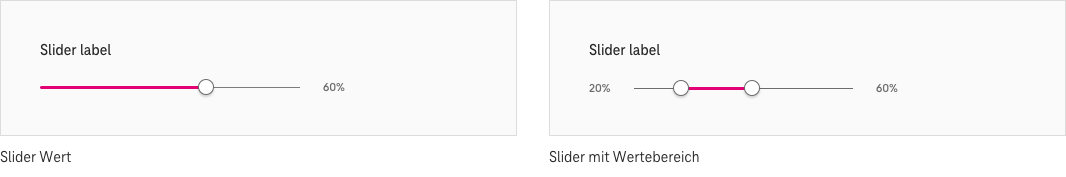
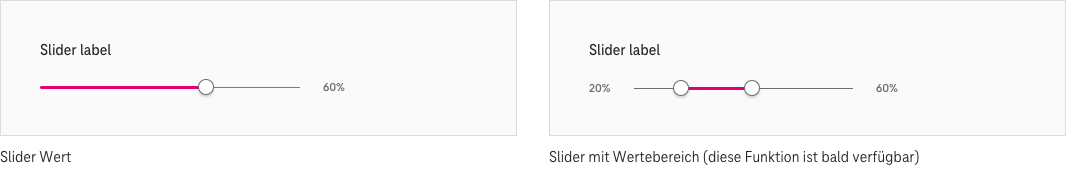
more translations

Changed region(s): [[0.6501, 0.8475, 0.8668, 0.9322]]

diff --git a/packages/storybook-vue/stories/4_community/1.Contributing_de.md b/packages/storybook-vue/stories/4_community/1.Contributing_de.md
@@ -1,26 +1,26 @@
-# (DE)Contributing to Scale
+# An Scale mitwirken
 
-Scale enables the Telekom developer community to share their skills. Whether you fix a bug, improve usability or build entire new components: Contribution is what makes Scale an invaluable asset to the Telekom product ecosystem.
+Scale ermöglicht es der Telekom Entwickler-Community ihre Fähigkeiten zu teilen. Ob du einen Fehler behebst, die Benutzbarkeit verbesserst oder neue Komponenten entwickelst: Diese Beiträge machen Scale zu einem wertvollen Asset im Produkt-Ökosystem der Telekom.
 
-## How You Can Contribute
+## Wie du zu Scale beiträgst
 
-- Report an issue in our [repository](https://gitlab.com/scale-ds/scale-telekom)
-- Fix a bug and send a [pull request](https://gitlab.com/scale-ds/scale-telekom)
-- If you want to contribute design work and new components, send an e-mail to Dennys.Hess@telekom.com
+- Sende ein Issue in unserem [Repository](https://gitlab.com/scale-ds/scale-telekom)
+- Behebe einen Fehler und sende uns einen [Pull request](https://gitlab.com/scale-ds/scale-telekom)
+- Wenn du Design-Verbesserungen und neue Komponenten beitragen willst, wende Dich an Dennys.Hess@telekom.com
 
-## Development Workflow for Contributions
+## Unser Arbeits-Ablauf für Beiträge
 
 ### Pull Requests
 
-When opening a new MR it is advised to branch off the latest `master` branch. We loosely follow the `Git flow` standards for branch naming e.g. `feat|feature`, `fix`, `chore`, `test` etc. All pull requests are then merged into `master` and released through the `CI` pipeline via the `release` branch.
+Wenn du einen neuen Pull Request öffnest, starte mit dem aktuellen `master` Branch. Wir folgen wenn möglich den `Git flow` Standards für Benamung: z.B. `feat|feature`, `fix`, `chore`, `test` etc. Alle Pull-Requests werden in `master` gemerged und durch die `CI` Pipeline im `release` -Branch veröffentlicht.
 
 ### Tests
 
-When developing new features or components it is required to provide `unit tests` and `end to end` tests if appropriate and aim at 100% test coverage. In addition we use `screenshot tests` for components via `jest-image-snapshot`. Stencil uses `Jest` as the testing framework, please take a look at the existing components as an example or visit the official documentation:
+Wenn neue Features und Komponenten entwickelt werden, benötigen wir `unit tests` und `end to end` Tests. Wir zielen auf 100% Test-Abdeckung. Zusätzlich nutzen wir `screenshot tests` für Komponenten in `jest-image-snapshot`. Stencil nutz `Jest` als Test-Framework. Bitte sieh Dir die existierenden Komponenten als Beispiele an und lies die offizielle Dokumentation:
 
 - https://stenciljs.com/docs/testing-overview
 - https://jestjs.io/
 
 ### Tooling
 
-We strongly recommend you use the `VSCode text editor` since most of our code is written in `Typescript` and it offers amazing support for the language.
+Wir empfehlen die Nutzung des `VSCode text editor` da er `Typescript` optimal unterstützt.

diff --git a/packages/storybook-vue/stories/2_guidelines/2.Spacing_de.md b/packages/storybook-vue/stories/2_guidelines/2.Spacing_de.md
@@ -8,10 +8,10 @@ Verwende die folgenden Einheiten bei der Konstruktion von Komponenten. Sie entha
 
 | Name       | rem   | px  | Beispiel                                |
 | ---------- | ----- | --- | --------------------------------------- |
-| Spacing-01 | 0.375 | 6   | ![Image Name](assets/2_guidelines/spacing/image2020-8-3_13-31-16.png) |
-| Spacing-02 | 0.5   | 8   | ![Image Name](assets/2_guidelines/spacing/image2020-8-3_13-27-47.png) |
-| Spacing-03 | 0.75  | 12  | ![Image Name](assets/2_guidelines/spacing/image2020-8-3_13-27-54.png) |
-| Spacing-04 | 1.5   | 24  | ![Image Name](assets/2_guidelines/spacing/image2020-8-3_13-28-1.png)  |
+| Spacing-01 | 0.375 | 6   | ![Image Name](assets/2_guidelines/2_spacing/image-spacing06px.png) |
+| Spacing-02 | 0.5   | 8   | ![Image Name](assets/2_guidelines/2_spacing/image-spacing08px.png) |
+| Spacing-03 | 0.75  | 12  | ![Image Name](assets/2_guidelines/2_spacing/image-spacing12px.png) |
+| Spacing-04 | 1.5   | 24  | ![Image Name](assets/2_guidelines/2_spacing/image-spacing24px.png)  |
 
 ## Layout-Einheiten
 
@@ -19,9 +19,9 @@ Mit Layout-Einheiten kannst du einzelne Komponenten und andere UI-Elemente eines
 
 | Name      | rem | px  | Beispiel                                |
 | --------- | --- | --- | --------------------------------------- |
-| Layout-01 | 1   | 16  | ![Image Name](assets/2_guidelines/spacing/image2020-8-3_13-31-28.png) |
-| Layout-02 | 1.5 | 24  | ![Image Name](assets/2_guidelines/spacing/image2020-8-3_13-29-47.png) |
-| Layout-03 | 2   | 32  | ![Image Name](assets/2_guidelines/spacing/image2020-8-3_13-29-54.png) |
+| Layout-01 | 1   | 16  | ![Image Name](assets/2_guidelines/2_spacing/image-spacing16px.png) |
+| Layout-02 | 1.5 | 24  | ![Image Name](assets/2_guidelines/2_spacing/image-spacing24px.png) |
+| Layout-03 | 2   | 32  | ![Image Name](assets/2_guidelines/2_spacing/image-spacing32px.png) |
 
 ## Mit Weißraum gestalten
 

diff --git a/packages/storybook-vue/stories/2_guidelines/2.Spacing_en.md b/packages/storybook-vue/stories/2_guidelines/2.Spacing_en.md
@@ -8,10 +8,10 @@ Use the spacing units when building individual components. They include small in
 
 | name       | rem   | px  | example                                 |
 | ---------- | ----- | --- | --------------------------------------- |
-| Spacing-01 | 0.375 | 6   | ![Image Name](assets/2_guidelines/spacing/image2020-8-3_13-31-16.png) |
-| Spacing-02 | 0.5   | 8   | ![Image Name](assets/2_guidelines/spacing/image2020-8-3_13-27-47.png) |
-| Spacing-03 | 0.75  | 12  | ![Image Name](assets/2_guidelines/spacing/image2020-8-3_13-27-54.png) |
-| Spacing-04 | 1.5   | 24  | ![Image Name](assets/2_guidelines/spacing/image2020-8-3_13-28-1.png)  |
+| Spacing-01 | 0.375 | 6   | ![Image Name](assets/2_guidelines/2_spacing/image-spacing06px.png) |
+| Spacing-02 | 0.5   | 8   | ![Image Name](assets/2_guidelines/2_spacing/image-spacing08px.png) |
+| Spacing-03 | 0.75  | 12  | ![Image Name](assets/2_guidelines/2_spacing/image-spacing12px.png) |
+| Spacing-04 | 1.5   | 24  | ![Image Name](assets/2_guidelines/2_spacing/image-spacing24px.png) |
 
 ## Layout scale
 
@@ -19,9 +19,9 @@ The layout units arrange components and other UI parts into a full-page layout. 
 
 | name      | rem | px  | example                                 |
 | --------- | --- | --- | --------------------------------------- |
-| Layout-01 | 1   | 16  | ![Image Name](assets/2_guidelines/spacing/image2020-8-3_13-31-28.png) |
-| Layout-02 | 1.5 | 24  | ![Image Name](assets/2_guidelines/spacing/image2020-8-3_13-29-47.png) |
-| Layout-03 | 2   | 32  | ![Image Name](assets/2_guidelines/spacing/image2020-8-3_13-29-54.png) |
+| Layout-01 | 1   | 16  | ![Image Name](assets/2_guidelines/2_spacing/image-spacing16px.png) |
+| Layout-02 | 1.5 | 24  | ![Image Name](assets/2_guidelines/2_spacing/image-spacing24px.png) |
+| Layout-03 | 2   | 32  | ![Image Name](assets/2_guidelines/2_spacing/image-spacing32px.png) |
 
 ## Designing with space
 

diff --git a/packages/storybook-vue/stories/3_components/divider/divider_de.md b/packages/storybook-vue/stories/3_components/divider/divider_de.md
@@ -1,20 +1,20 @@
-# Trenner
+# Divider
 
-Ein Trenner ist eine feine Linie, mit der du Elemente in Gruppen unterteilen und Inhalte strukturieren kannst. Für Nutzer*innen ist es dadurch einfacher, zusammengehörige Inhalte zu erkennen.
+Ein Divider ist eine feine Linie, mit der du Elemente in Gruppen unterteilen und Inhalte strukturieren kannst. Für Nutzer*innen ist es dadurch einfacher, zusammengehörige Inhalte zu erkennen.
 
 ## Allgemein
 
-Trenner sind subtil: Sie sind gut erkennbar, aber nie dominant.
+Divider sind subtil: Sie sind gut erkennbar, aber nie dominant.
 
-### Verwende einen Trenner, wenn
+### Verwende einen Divider, wenn
 
 *	Weißraum nicht ausreicht, um Inhalte zu strukturieren oder
 *	es nicht möglich ist, Weißraum zu nutzen, zum Beispiel bei Platzmangel.
 
 
-### Verwende Trenner besser nicht, wenn
+### Verwende Divider besser nicht, wenn
 
-sie nicht unbedingt benötigt werden. Zu viele Trenner lassen das Design unruhig und fragmentiert erscheinen.
+sie nicht unbedingt benötigt werden. Zu viele Divider lassen das Design unruhig und fragmentiert erscheinen.
 
 
 ## Varianten

diff --git a/packages/storybook-vue/stories/3_components/link/link_de.md b/packages/storybook-vue/stories/3_components/link/link_de.md
@@ -36,7 +36,7 @@ Ein Icon kennzeichnet, ob ein Link zu einer externen Webseite, einem Dokument od
 - Ein Text-Link sollte so kurz wie möglich sein, jedoch lang genug, um den Zweck klar zu vermitteln. Im Optimalfall besteht ein Link aus ein bis drei Wörtern. In Ausnahmefällen kannst du auch einen ganzen Satz verlinken, wenn es sinnvoll ist.
 - Setze einen Text-Link nur ein, wenn er selbsterklärend ist und keine weiteren Informationen benötigt. Text-Links wie „Hier klicken" oder „Mehr Informationen" können für Personen, die auf einen Screen Reader angewiesen sind, problematisch sein.
 
-## Größen
+<!--## Größen
 
 Wähle die Schriftgröße auf Basis der verwendeten Schrift im Fließtext.
 
@@ -50,4 +50,4 @@ Wähle die Schriftgröße auf Basis der verwendeten Schrift im Fließtext.
 
 16px
 
-![Image Name](/assets/3_components/link/link_small.png)
+![Image Name](/assets/3_components/link/link_small.png)-->

diff --git a/packages/storybook-vue/stories/4_community/2.Feedback_de.md b/packages/storybook-vue/stories/4_community/2.Feedback_de.md
@@ -1,9 +1,9 @@
-# (DE)Your Feedback to Scale
+# Dein Feedback zu Scale
 
-The Scale design system is always evolving. To be better we need your feedback:
+Das Scale Design System entwickelt sich ständig weiter. Um uns ständig zu verbessern, brauchen wir dein Feedback:
 
-## How to Provide Feedback
+## Wie gebe ich Feedback zu Scale?
 
-- Leave a comment on [our repository](https://gitlab.com/scale-ds/scale-telekom)
-- Open an issue on [our repository](https://gitlab.com/scale-ds/scale-telekom)
-- For feedback about design and design requirements, send an e-mail to Dennys.Hess@telekom.de
+- Hinterlasse Kommentare zu [unserem Repository](https://gitlab.com/scale-ds/scale-telekom)
+- Eröffne ein Issue in [unserem Repository](https://gitlab.com/scale-ds/scale-telekom)
+- Für Feedback zu Design und Design-Anforderungen, sende eine E-Mail an Dennys.Hess@telekom.de

diff --git a/packages/storybook-vue/stories/3_components/link/link.md b/packages/storybook-vue/stories/3_components/link/link.md
@@ -38,7 +38,7 @@ Add an icon to label certain categories, e.g., links to external sites, document
 - A link text should be as short as possible – typically one to three words. However, a link needs to be long enough to clearly convey its purpose. In certain cases, you can link a full sentence, but avoid longer links wherever possible.
 - A link text should make sense without any additional context. Using "more information" or "click here" can cause problems for people using screen readers.
 
-## Sizes
+<!--## Sizes
 
 Choose the size based on the body text you are using.
 
@@ -52,4 +52,4 @@ Choose the size based on the body text you are using.
 
 16px
 
-![Image Name](/assets/3_components/link/link_small.png)
+![Image Name](/assets/3_components/link/link_small.png)-->

diff --git a/packages/storybook-vue/stories/3_components/checkbox/checkbox_de.md b/packages/storybook-vue/stories/3_components/checkbox/checkbox_de.md
@@ -37,11 +37,13 @@ Deaktiviere die Checkbox, wenn
 
 ## Verschachtelte Checkboxen
 
+> Diese Funktion ist bald verfügbar.
+
 Wenn Checkboxen zu einer übergeordneten Auswahloption gehören, dann kannst du diese verschachtelt darstellen. Durch Aktivieren der übergeordneten Checkbox werden alle anderen dieser Gruppe automatisch ausgewählt und umgekehrt. Wählen Nutzer*innen nur eine der untergeordneten Checkboxen, ist der Status des übergeordneten Kontrollkästchens unbestimmt. 
 
 ![Image Name](assets/3_components/checkbox/checkbox_nesting.png)
 
-### Verpflichtende Eingaben
+## Verpflichtende Eingaben
 
 Verwende ein Sternchen (*) hinter dem Text, wenn eine Checkbox angekreuzt werden muss.
 

diff --git a/packages/storybook-vue/stories/3_components/checkbox/checkbox.md b/packages/storybook-vue/stories/3_components/checkbox/checkbox.md
@@ -36,11 +36,13 @@ Disable the checkbox if:
 
 ## Nested groups of checkboxes
 
+> Available soon
+
 When checkboxes are related to a parent checkbox, you can nest them. Selecting the parent checkbox automatically selects all checkboxes of the group and vice versa. When the user selects a portion of the nested checkboxes, the state of the parent checkbox is indeterminate.
 
 ![Image Name](assets/3_components/checkbox/checkbox_nesting.png)
 
-### Required input
+## Required input
 
 When checking a box is required, use an asterisk (*) in the text label.
 

diff --git a/packages/storybook-vue/stories/3_components/progress-bar/progress-bar_de.md b/packages/storybook-vue/stories/3_components/progress-bar/progress-bar_de.md
@@ -15,6 +15,8 @@ Bei einem Prozess, bei dem du die Dauer genau kennst, solltest du immer die best
 
 ### Unbestimmte Progress-Bar
 
+> Diese Funktion ist bald verfügbar.
+
 Wenn du die Dauer eines Prozesses nicht genau abschätzen kannst, dann verwende die unbestimmte Progress-Bar. Sie zeigt zwar an, dass ein Prozess ausgeführt wird, aber nicht, wie lange es dauert. Wenn möglich, vermeide die Verwendung der unbestimmten Progress-Bar.
 
 ![Image Name](assets/3_components/progress-bar/pb-indeterminate.png)

diff --git a/packages/storybook-vue/stories/3_components/progress-bar/progress-bar.md b/packages/storybook-vue/stories/3_components/progress-bar/progress-bar.md
@@ -15,6 +15,8 @@ For processes where you know the duration, use determinate progress bars. The la
 
 ### Indeterminate
 
+> Available soon
+
 If you cannot determine the duration of a process, use the indeterminate progress bar. This indicates that the system is operating, but doesn't give any idea how long it could take. Therefore, you should always avoid using this type of progress bar whenever possible.
 
 ![Image Name](assets/3_components/progress-bar/pb-indeterminate.png)

diff --git a/packages/storybook-vue/stories/3_components/tab-navigation/tab-navigation_de.md b/packages/storybook-vue/stories/3_components/tab-navigation/tab-navigation_de.md
@@ -58,8 +58,3 @@ Das Label beschreibt verständlich den Inhalt eines Tabs. Am besten funktioniere
 *	Wechseln die Nutzer*innen zwischen den Bereichen, dann ändern sich nur der Tab und sein Inhaltsbereich. Die übrige Darstellung der Seite bleibt gleich.
 *	Ordne die Tabs nach den Bedürfnissen der Nutzer*innen an.
 *	Entscheide dich für eine Variante der Tabs (mit Icon oder ohne) und mische sie nicht.
-
-
-## Verwandte Komponenten
-
-Icons
